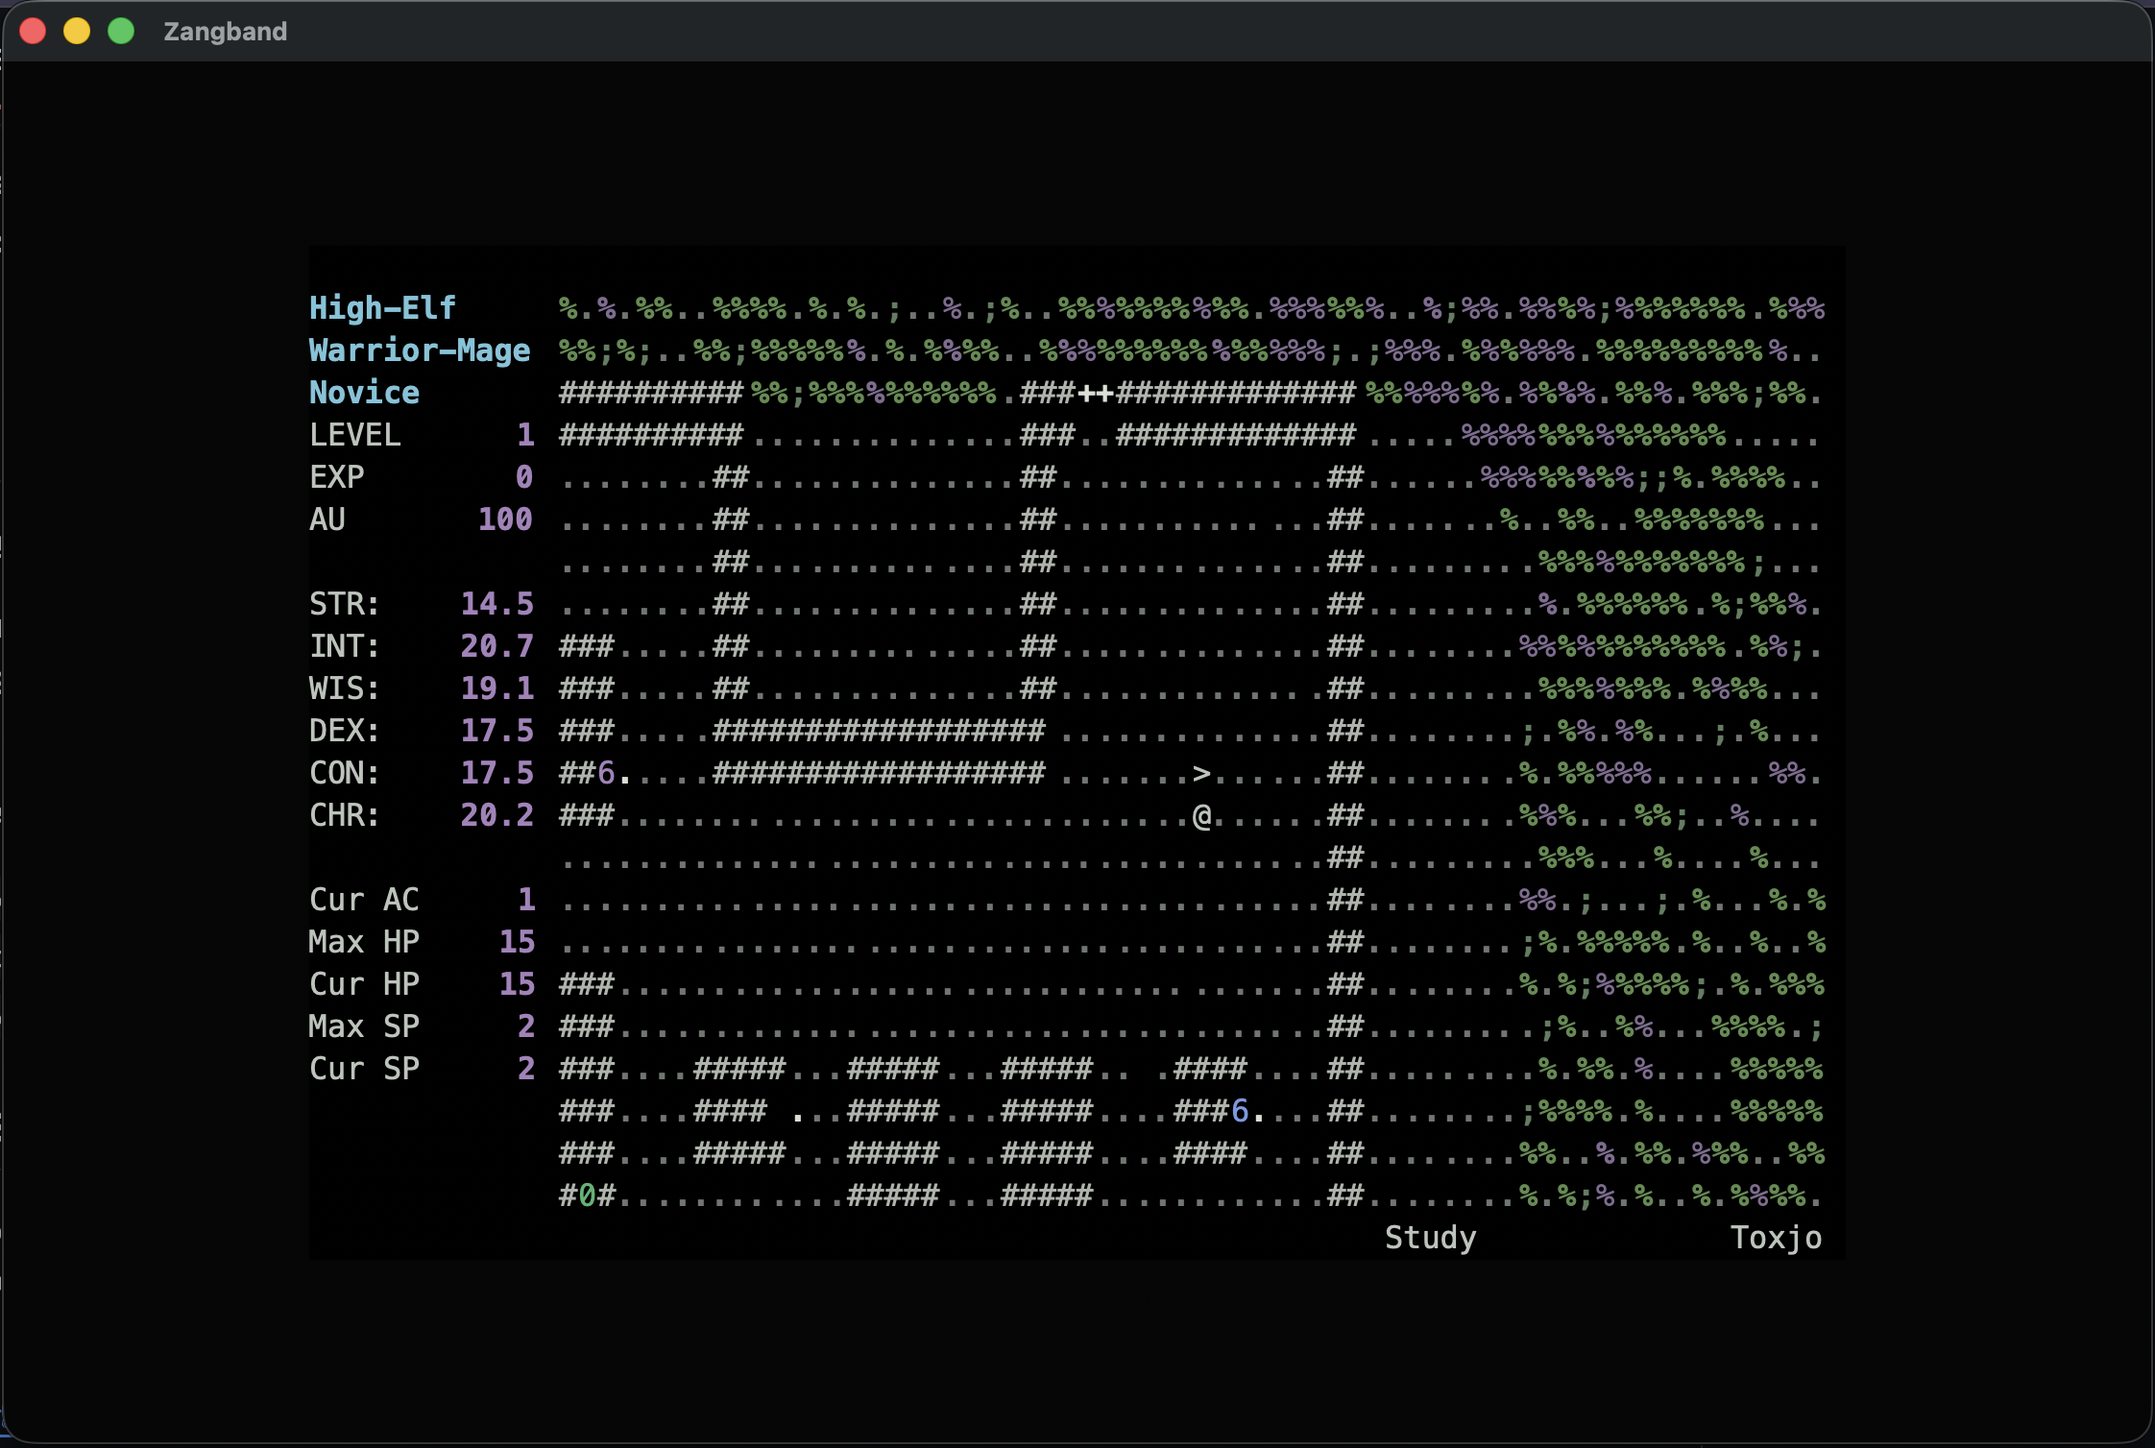
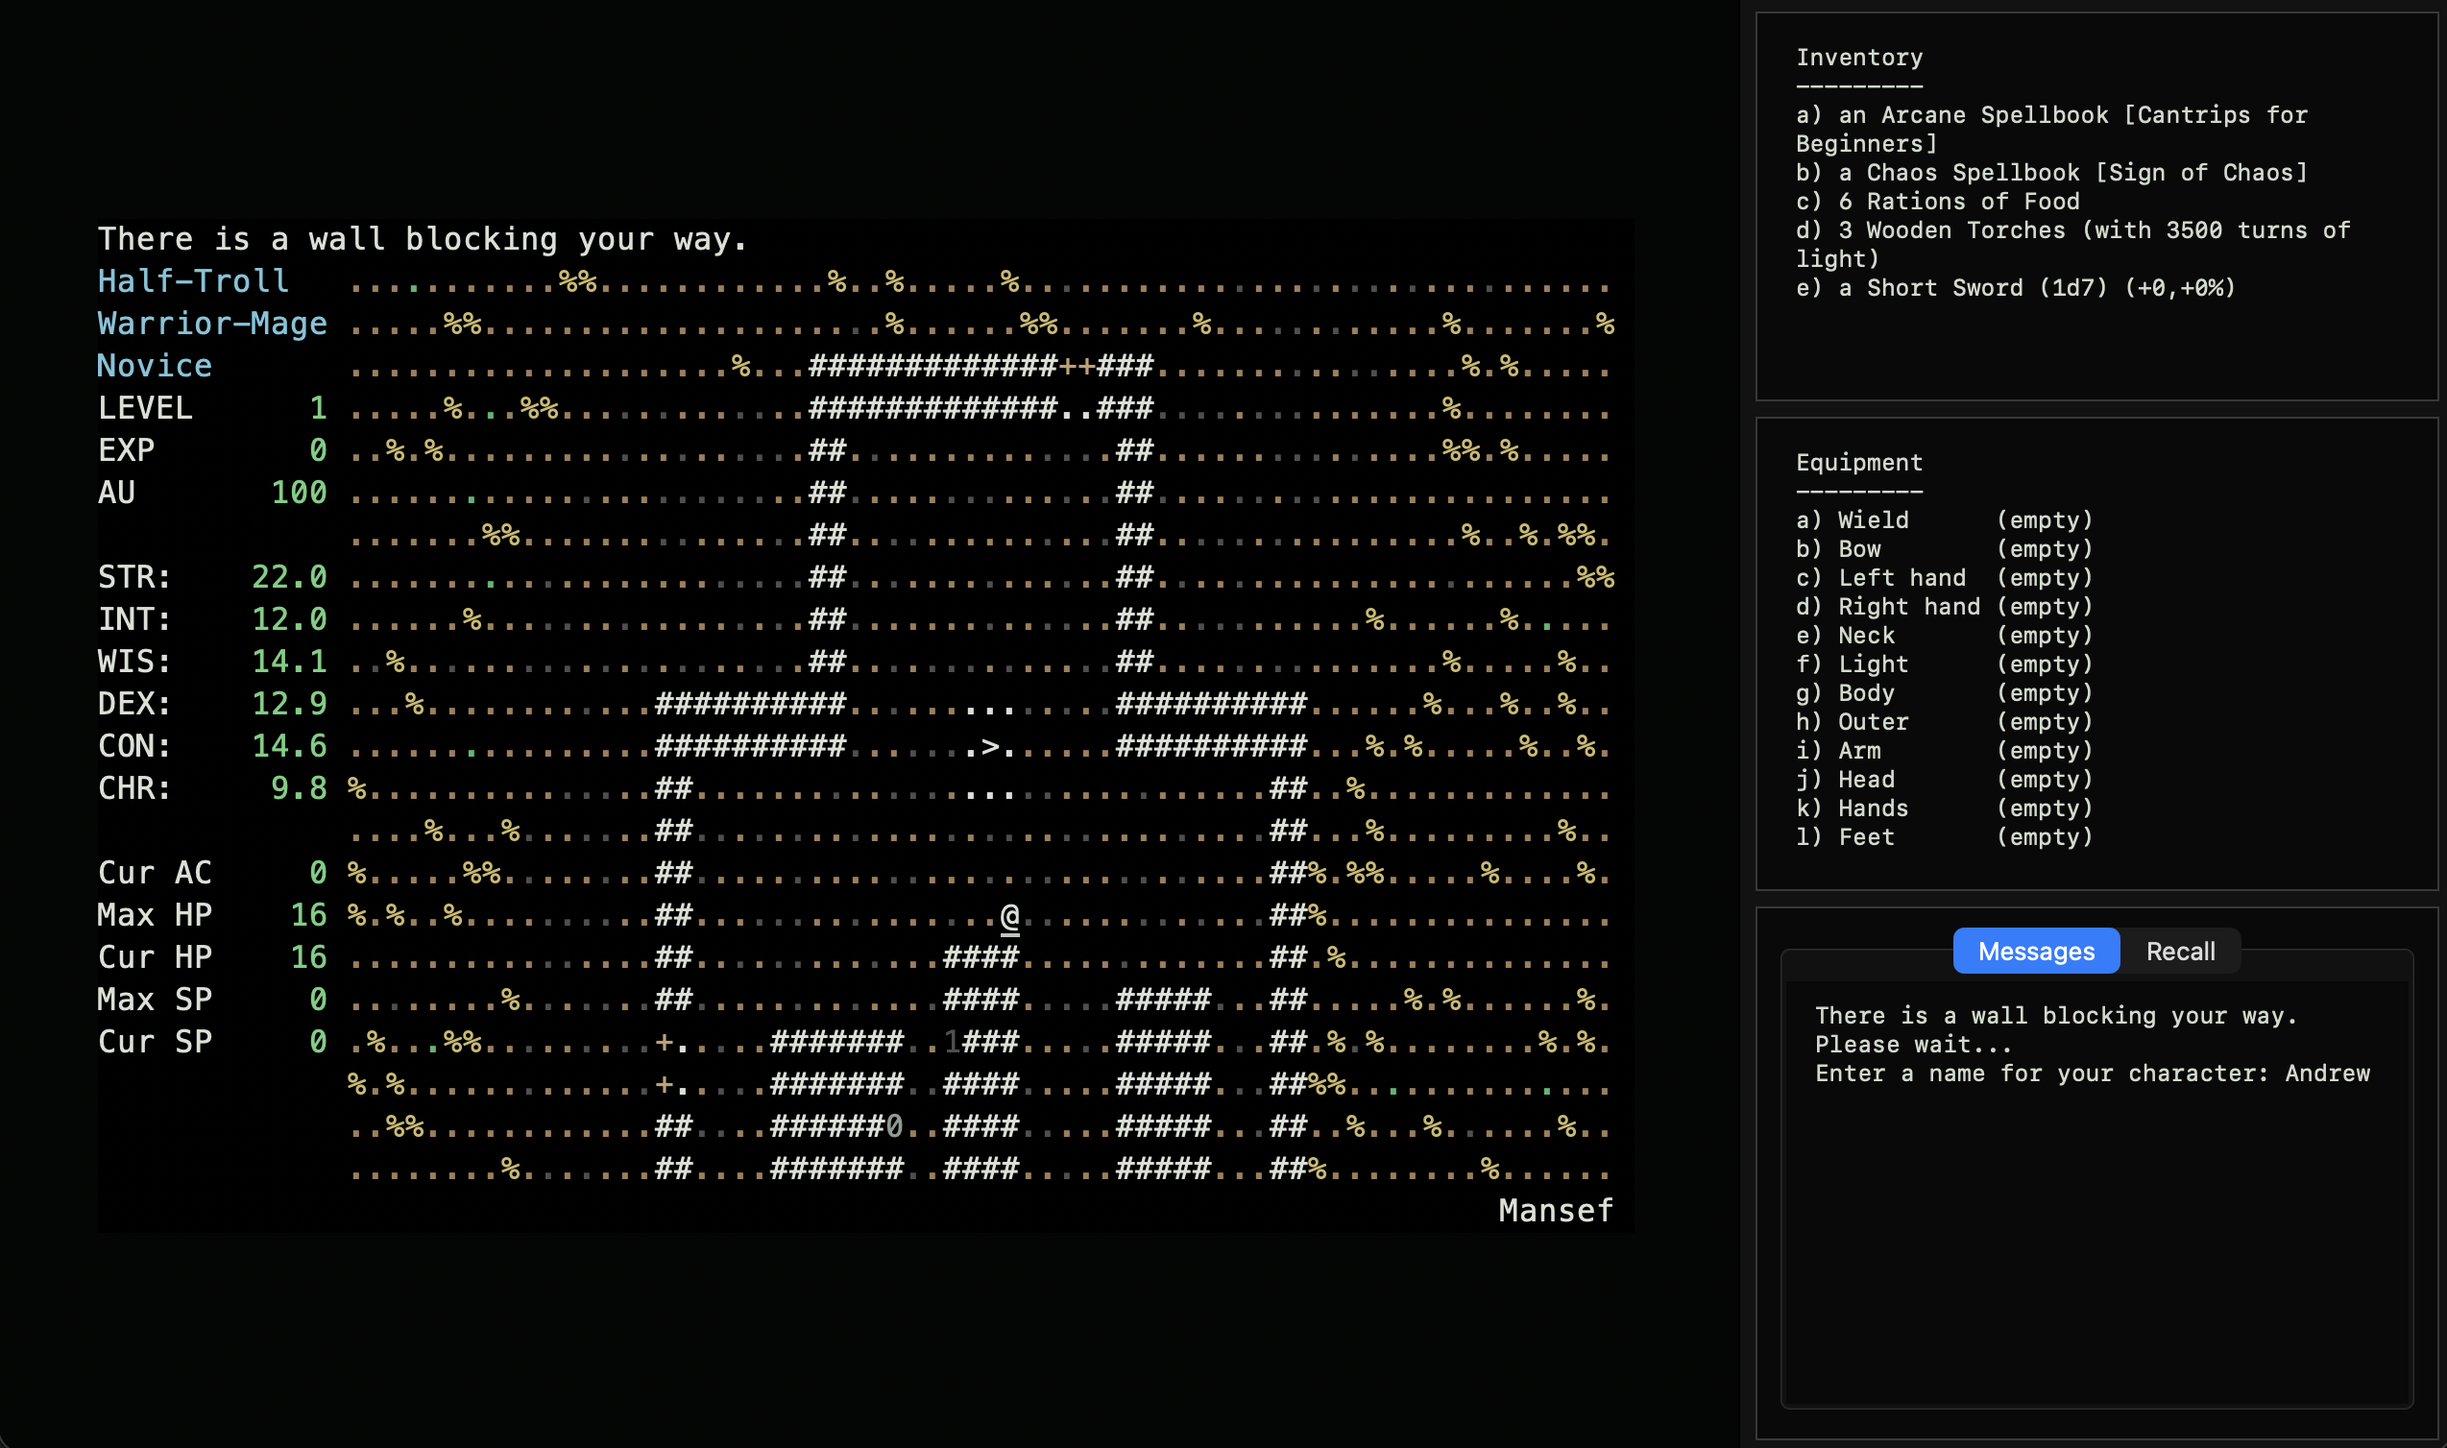
Prepare native Mac app release

diff --git a/README.md b/README.md
@@ -9,9 +9,9 @@ The goal is simple:
 > make Zangband feel at home on a modern Mac without sanding off what makes it
 > Zangband.
 
-Right now this builds a double-clickable `.app` bundle that runs the original
-game core, renders it in a native Cocoa window, and fixes several 64-bit macOS
-portability issues.
+Right now this builds a double-clickable native `.app` bundle that links the
+original game core into an AppKit process, renders through a Cocoa `z-term`
+backend, and fixes several 64-bit macOS portability issues.
 
 ![Zangband running as a native macOS app](docs/assets/zangband-mac-app.png)
 
@@ -26,38 +26,48 @@ making it playable and pleasant on modern macOS.
 
 ## What Works
 
-- Native macOS `.app` bundle at `macos/build/Zangband.app`
-- Cocoa fixed-grid renderer
+- Native macOS `.app` bundle at `macos/build/ZangbandNative.app`
+- Direct Cocoa `z-term` renderer
 - Bundled game binary and game data
-- Writable runtime data under `~/Library/Application Support/Zangband`
+- Writable runtime data under `~/Library/Application Support/ZangbandNative`
 - Keyboard input routed through the app window
 - Native menus for:
   - New Game
   - Restart
+  - Save
+  - Save and Quit
+  - Save Manager
+  - Morgue Gallery
+  - Command Palette
   - Bigger Text
   - Smaller Text
   - Actual Size
+  - Side Inspector
+  - Tile Mode
   - Fullscreen
-- Stable 80x24 logical game grid, so resizing the Mac window does not corrupt
-  the old curses UI
+- Stable fixed-cell grid, so resizing the Mac window keeps the dungeon aligned
 - Mac-specific terrain palette, so floors, trees, dirt, grass, rock, water,
   lava, and swamp read as environment instead of bright terminal foreground
+- Side inspector with stacked inventory, equipment, and tabbed message/recall
+  history
+- Random default character names instead of hardcoded player names
+- Death-screen restart flow, so a run can be restarted without closing the app
 - 64-bit macOS RNG/type-sizing fix for character generation
+- Fallback wrapper app at `macos/build/Zangband.app`
 
 ## Current Architecture
 
-The current app is intentionally pragmatic.
+The primary Mac app is now the direct Cocoa backend.
 
-The game still runs through the existing curses backend (`zangband -mgcu`) inside
-a pseudo-terminal. The macOS app parses the terminal output, keeps a native cell
-grid, and draws that grid with AppKit.
+`ZangbandNative.app` links the Zangband game core into the app process and
+implements the game's `z-term` hooks in `src/main-cocoa.m`. That removes the
+pseudo-terminal bridge from the main app path and lets the Mac UI observe game
+state directly enough to support native panels like the save manager, morgue
+gallery, command palette, and side inspector.
 
-This gives us a usable Mac app quickly while keeping the original game core
-intact.
-
-The next major step is a direct Cocoa or Metal `z-term` backend, replacing the
-pty/curses bridge entirely. That is the path to a truly high-performance native
-port.
+The older wrapper app still exists as a compatibility fallback. It runs
+`zangband -mgcu` inside a pseudo-terminal, parses the terminal output, and draws
+the resulting cells with AppKit.
 
 ## Build
 
@@ -66,26 +76,39 @@ From the repo root:
 ```sh
 ./configure --with-x11=no
 make
-make -C macos
+make -C macos native
 ```
 
-Then launch:
+Then launch the native Mac app:
 
 ```sh
+open macos/build/ZangbandNative.app
+```
+
+To build the fallback wrapper app:
+
+```sh
+make -C macos
 open macos/build/Zangband.app
 ```
 
-To produce a signed zip release artifact:
+To produce a signed native zip release artifact:
 
 ```sh
-scripts/build-macos-release.sh
+scripts/build-native-macos-release.sh
 ```
 
 Without a local Apple Developer certificate, the script uses ad-hoc signing.
 For a Developer ID build, set:
 
 ```sh
-CODESIGN_IDENTITY="Developer ID Application: Your Name (TEAMID)" scripts/build-macos-release.sh
+CODESIGN_IDENTITY="Developer ID Application: Your Name (TEAMID)" scripts/build-native-macos-release.sh
+```
+
+To produce a signed wrapper zip instead:
+
+```sh
+scripts/build-macos-release.sh
 ```
 
 For terminal play without the app:
@@ -96,32 +119,23 @@ TERM=xterm-256color ANGBAND_PATH="$PWD/lib" ./zangband -mgcu
 
 ## Native Cocoa Backend
 
-This branch includes the first experimental in-process Cocoa `z-term` backend:
-
-```sh
-make -C macos native
-open macos/build/ZangbandNative.app
-```
-
-That target links the Zangband game core directly into an AppKit process and
-draws cells from `z-term` hooks instead of parsing pseudo-terminal output. It is
-the start of the true native port, not the release target yet. The stable app
-remains `macos/build/Zangband.app`.
-
 Native backend QA lives in `docs/native-backend-qa.md`. Mac app product ideas
 live in `docs/mac-app-ideas.md`.
 
 ## macOS Runtime Data
 
-On first launch, the app copies the bundled `lib` directory to:
+On first launch, the native app copies the bundled `lib` directory to:
 
 ```sh
-~/Library/Application Support/Zangband/lib
+~/Library/Application Support/ZangbandNative/lib
 ```
 
 The game runs with `ANGBAND_PATH` pointed at that writable copy, so save files,
 scores, generated raw data, and player state do not need to be written inside
 the app bundle.
+
+The wrapper app uses `~/Library/Application Support/Zangband/lib`, so the two
+targets can be tested side by side.
 
 ## Why This Exists
 
@@ -137,18 +151,17 @@ This repo is that care.
 
 ### Near Term
 
-- Add app icon and signed/notarized release artifacts
-- Improve keyboard handling for Mac conventions
-- Add save/open UX around the existing savefile system
-- Add screenshots and release builds
+- Add app icon and notarized Developer ID release artifacts
+- Broaden gameplay QA before making the native target the only shipped app
 - Add regression tests for macOS portability fixes
 
 ### Native Renderer
 
-- Replace pty/curses with a direct Cocoa `z-term` backend
-- Draw dirty cells directly from the game core
-- Move from AppKit text drawing to a faster renderer if needed
-- Add optional tiles while keeping ASCII first-class
+- Keep hardening direct Cocoa `z-term` input and restart behavior
+- Move from AppKit text drawing to a faster renderer if profiling says it is
+  needed
+- Expand optional tile mode while keeping ASCII first-class
+- Add richer native panels without changing deterministic gameplay
 
 ### LLM Experiments
 

diff --git a/macos/README.md b/macos/README.md
@@ -1,22 +1,20 @@
 # Zangband macOS App
 
-This directory contains the first native macOS app target for Zangband.
+This directory contains the macOS app targets for Zangband.
 
-The current app is a Cocoa shell with a native fixed-grid renderer. It launches
-the existing `zangband -mgcu` game process inside a pseudo-terminal, parses the
-curses/ANSI screen output, renders cells with AppKit, and forwards keyboard
-input back to the game.
+The primary target is now `ZangbandNative.app`. It links the Zangband game core
+directly into an AppKit process and implements the game's `z-term` hooks in
+`src/main-cocoa.m`.
 
-This gives us a double-clickable `.app` while keeping the game core unchanged.
-It is also a practical stepping stone toward the higher-performance version:
-replace the pseudo-terminal bridge with a direct Cocoa/Metal `z-term` backend.
+The wrapper target, `Zangband.app`, remains available as a compatibility
+fallback. It launches the existing `zangband -mgcu` game process inside a
+pseudo-terminal, parses the curses/ANSI screen output, renders cells with
+AppKit, and forwards keyboard input back to the game.
 
-The renderer intentionally keeps the game at an 80x24 logical terminal. Window
-resizing recenters the native viewport instead of resizing the pseudo-terminal,
-because the legacy curses UI can visually corrupt itself when its row/column
-count changes mid-game.
+Both renderers use stable fixed-cell layout. Window resizing recenters or
+resizes the native viewport without letting glyphs drift out of alignment.
 
-The renderer also applies a Mac-specific terrain palette. Zangband's default
+The Mac app also applies a Mac-specific terrain palette. Zangband's default
 feature data draws open floor as a white `.` and many wilderness features as
 bright `%` glyphs. The app keeps those symbols, but tints map glyphs darker
 than UI text so floors, grass, dirt, trees, rock, water, lava, and swamp read as
@@ -27,18 +25,25 @@ environment instead of foreground chrome.
 From the repository root:
 
 ```sh
-make -C macos
+make -C macos native
 ```
 
 The app is created at:
 
 ```sh
-macos/build/Zangband.app
+macos/build/ZangbandNative.app
 ```
 
 To launch it:
 
 ```sh
+open macos/build/ZangbandNative.app
+```
+
+To build the wrapper target:
+
+```sh
+make -C macos
 open macos/build/Zangband.app
 ```
 
@@ -47,29 +52,26 @@ open macos/build/Zangband.app
 From the repository root:
 
 ```sh
-scripts/build-macos-release.sh
+scripts/build-native-macos-release.sh
 ```
 
-The script builds `macos/build/Zangband.app`, signs the embedded game binary and
-the app bundle, verifies the signature, then writes a zip and SHA-256 checksum
-under `dist/`.
+The script builds `macos/build/ZangbandNative.app`, signs the app bundle,
+verifies the signature, then writes a zip and SHA-256 checksum under `dist/`.
 
 If no `CODESIGN_IDENTITY` is set, it uses ad-hoc signing (`codesign -s -`).
 Set `CODESIGN_IDENTITY` to a Developer ID Application certificate for a
 distributable signed build that can later be notarized.
 
-## Experimental Native Backend
-
-The native backend target links the game core directly into a Cocoa app and
-implements the Zangband `z-term` hooks in `src/main-cocoa.m`:
+The wrapper release script is still available:
 
 ```sh
-make -C macos native
-open macos/build/ZangbandNative.app
+scripts/build-macos-release.sh
 ```
 
-This removes the pseudo-terminal/curses layer for that target. The native target
-now includes Mac-facing gameplay surfaces on top of the direct `z-term` renderer:
+## Native Backend Features
+
+The native target includes Mac-facing gameplay surfaces on top of the direct
+`z-term` renderer:
 
 - File > Save Manager shows the active character, level, depth, status, save
   files, and last played timestamps.
@@ -81,21 +83,18 @@ now includes Mac-facing gameplay surfaces on top of the direct `z-term` renderer
 - View > Tile Mode adds an optional terrain/object color layer while preserving
   ASCII glyphs as the primary display.
 
-The stable release artifact can still use the wrapper app while the native
-backend finishes broader gameplay QA.
-
 ## Runtime Data
 
 On first launch, the bundled `lib` directory is copied to:
 
 ```sh
-~/Library/Application Support/Zangband/lib
+~/Library/Application Support/ZangbandNative/lib
 ```
 
 The game runs with `ANGBAND_PATH` pointed at that writable copy, so save files,
 scores, and generated data do not need to be written inside the app bundle.
-The direct native target uses `~/Library/Application Support/ZangbandNative/lib`
-so it can be tested side-by-side with the wrapper app.
+The wrapper target uses `~/Library/Application Support/Zangband/lib` so it can
+be tested side by side with the native app.
 
 ## App Controls
 

diff --git a/CHANGELOG.md b/CHANGELOG.md
@@ -1,0 +1,38 @@
+# Changelog
+
+## macos-v0.1.0 - 2026-04-18
+
+### Added
+
+- Direct native Cocoa app target at `macos/build/ZangbandNative.app`.
+- Native Cocoa `z-term` backend that links the Zangband core into an AppKit app
+  instead of driving gameplay through a pseudo-terminal.
+- Native save manager with active character, level, depth, status, save files,
+  and last-played timestamps.
+- Native morgue gallery for dead characters and shareable run summaries.
+- Command palette that searches common Zangband commands and sends the original
+  keybindings.
+- Side inspector with stacked inventory and equipment panels plus bottom tabs
+  for newest-first messages and monster recall.
+- Optional tile mode that preserves ASCII glyphs as the primary display.
+- Native death-screen restart flow.
+- Random default character names for new runs.
+- Native release script at `scripts/build-native-macos-release.sh`.
+
+### Changed
+
+- Updated the README with the current native Mac app screenshot and build
+  instructions.
+- Made the default native window wider and gave more room to the side inspector.
+- Hardened resize behavior so glyphs stay aligned when the window changes size.
+- Tuned terrain coloring so floors, trees, grass, dirt, rock, water, lava, and
+  swamp read as environment instead of bright terminal foreground.
+- Fixed native message history ordering and missing leading characters in
+  captured message lines.
+
+### Notes
+
+- Release artifacts are ad-hoc signed unless `CODESIGN_IDENTITY` is set to a
+  Developer ID Application certificate.
+- The wrapper app target, `macos/build/Zangband.app`, remains available as a
+  fallback through `scripts/build-macos-release.sh`.

diff --git a/docs/native-backend-qa.md b/docs/native-backend-qa.md
@@ -1,8 +1,8 @@
 # Native Cocoa Backend QA
 
-The native backend is intentionally not the default app target yet. It links the
-legacy Zangband game core into the AppKit process, so these checks are the gate
-before replacing the stable pty/curses wrapper.
+The native backend is the Mac release target. It links the legacy Zangband game
+core into the AppKit process, so these checks are the release gate before
+shipping a new signed artifact.
 
 ## Automated Checks
 
@@ -44,14 +44,14 @@ running without stderr output.
   store, leave a store, descend/ascend stairs, fight one monster, and save.
 - Recovery: relaunch after Save and Quit and confirm the save loads.
 
-## Default-App Gate
+## Release Gate
 
-Before making `ZangbandNative.app` the default release target:
+Before shipping `ZangbandNative.app`:
 
 - Complete the manual checklist on a fresh support directory.
 - Complete it again using an existing save.
 - Verify no generated files are written inside the app bundle.
 - Verify menu actions work while the game is waiting for input and while it is
   redrawing.
-- Add a screenshot comparison against the stable wrapper for title, birth,
-  town, inventory, and store screens.
+- Keep screenshot comparisons against the wrapper for title, birth, town,
+  inventory, and store screens while both targets exist.
